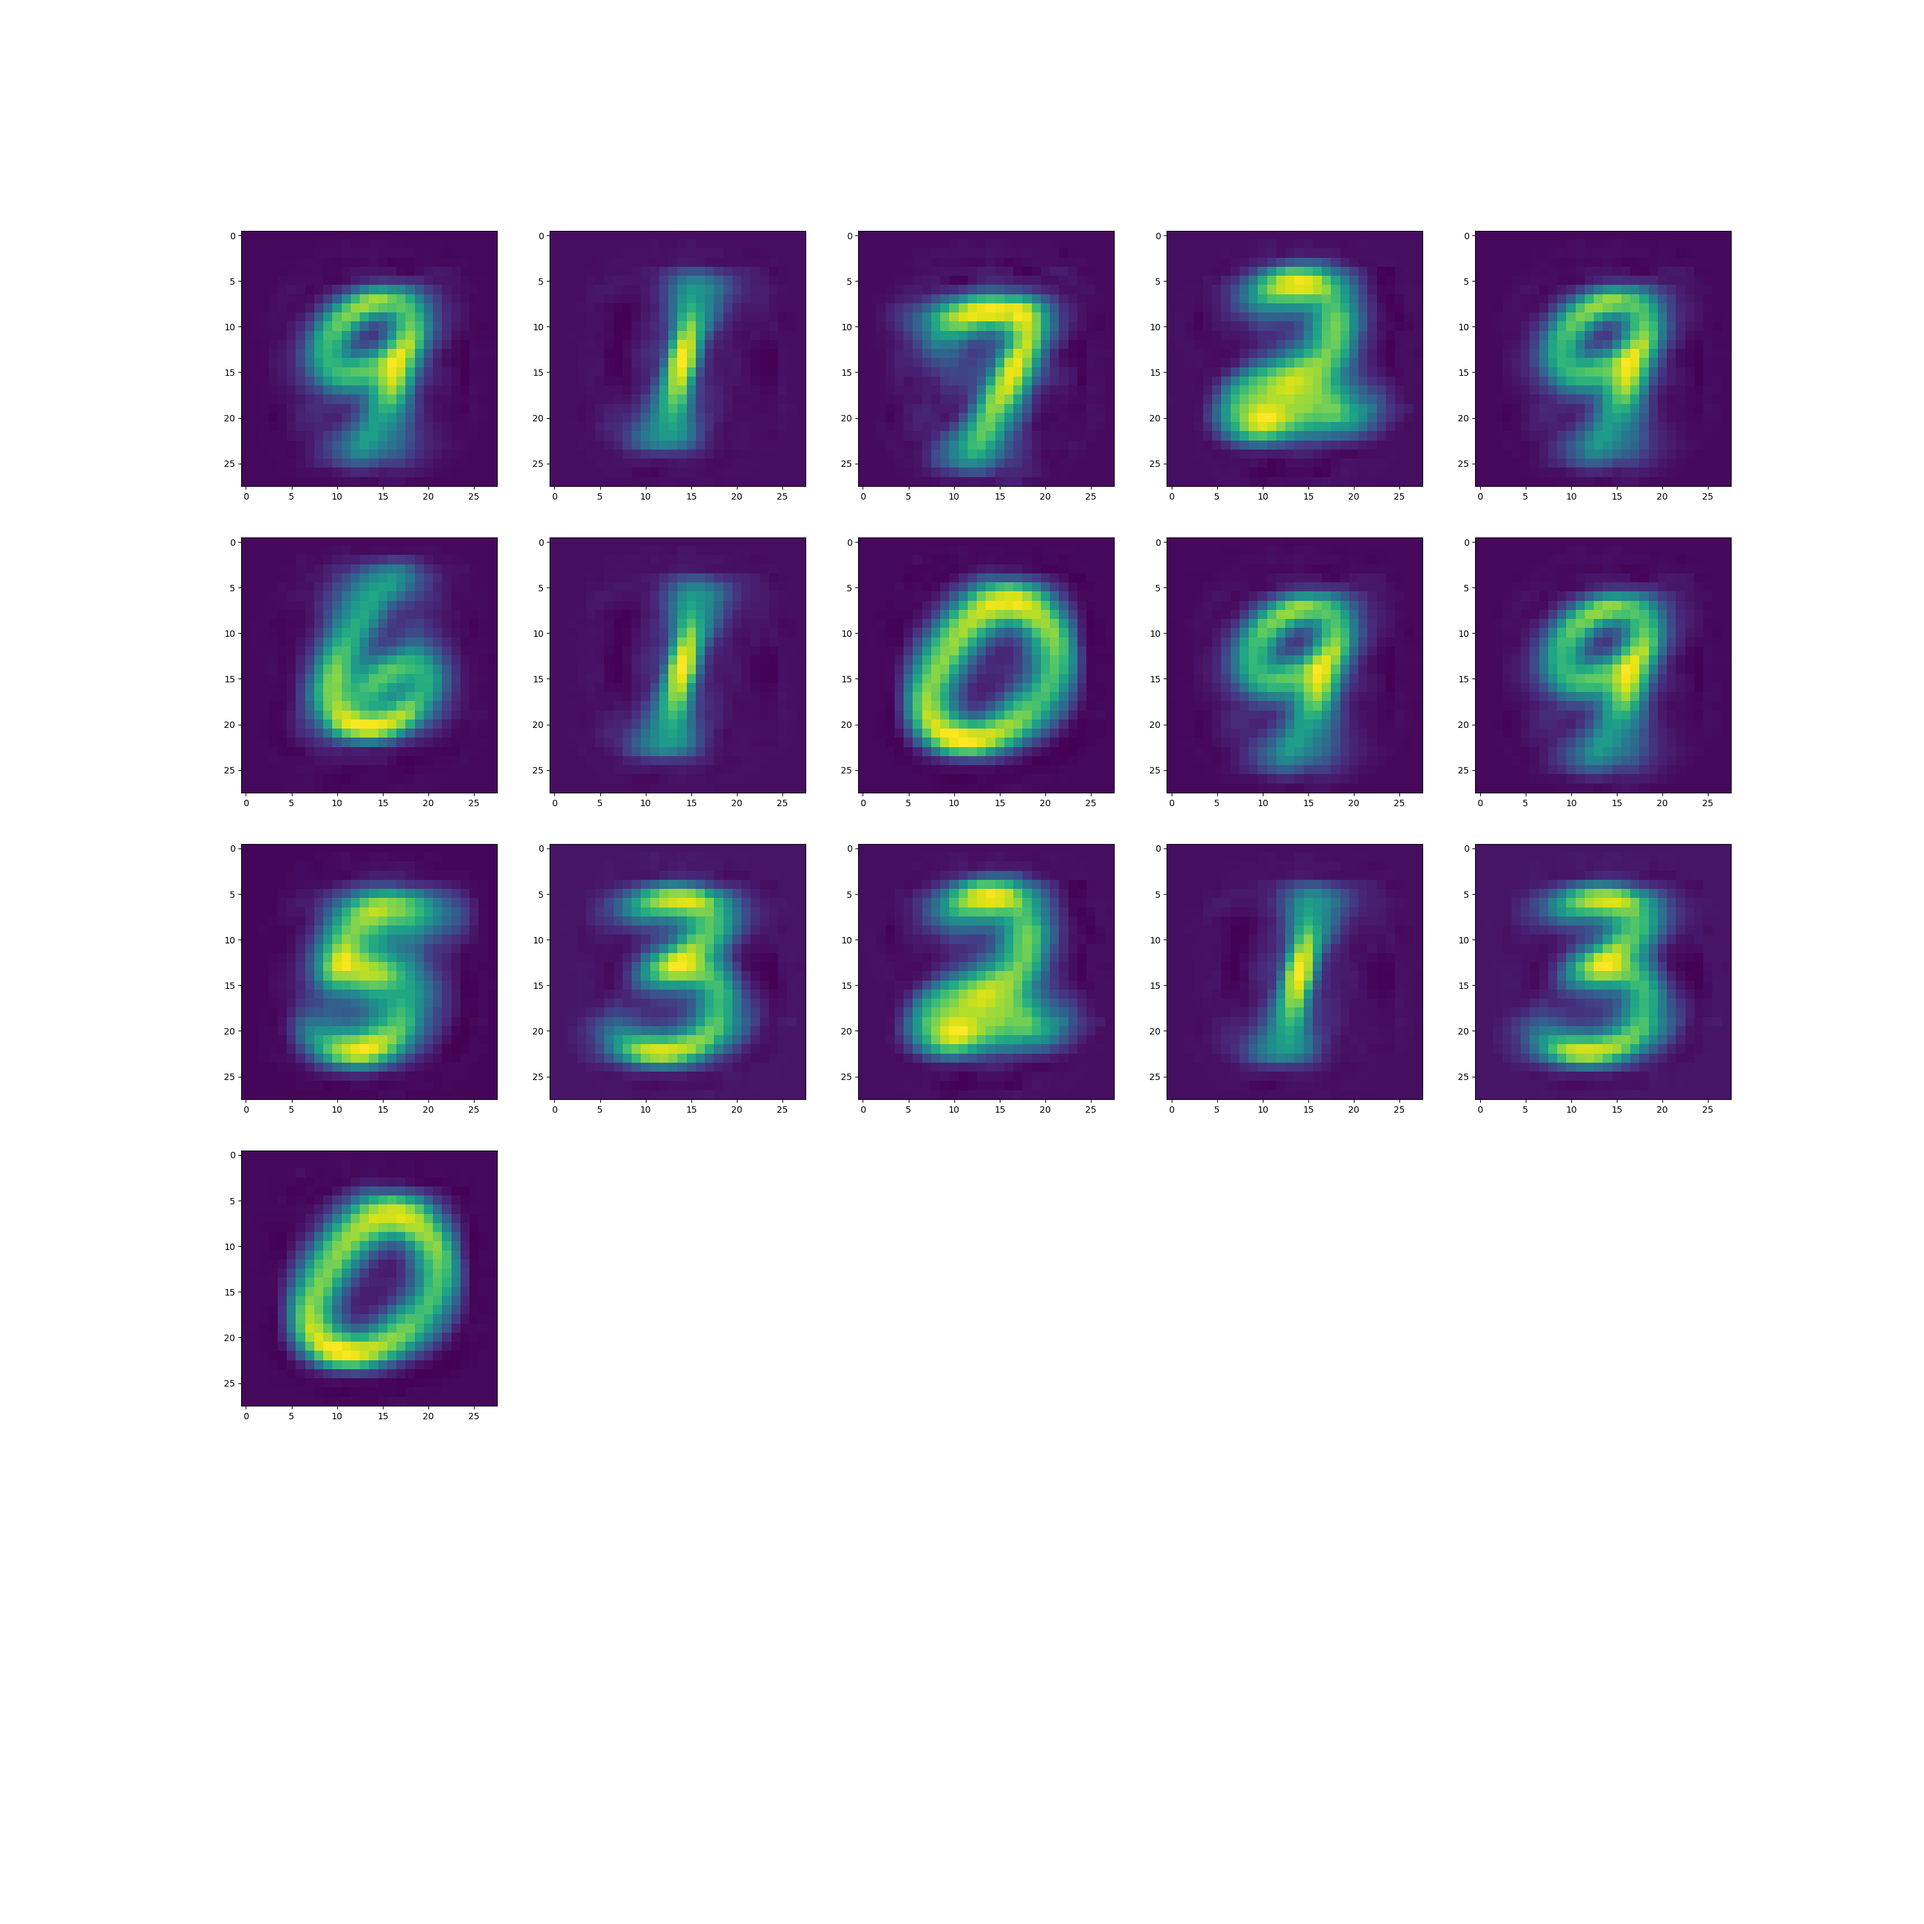
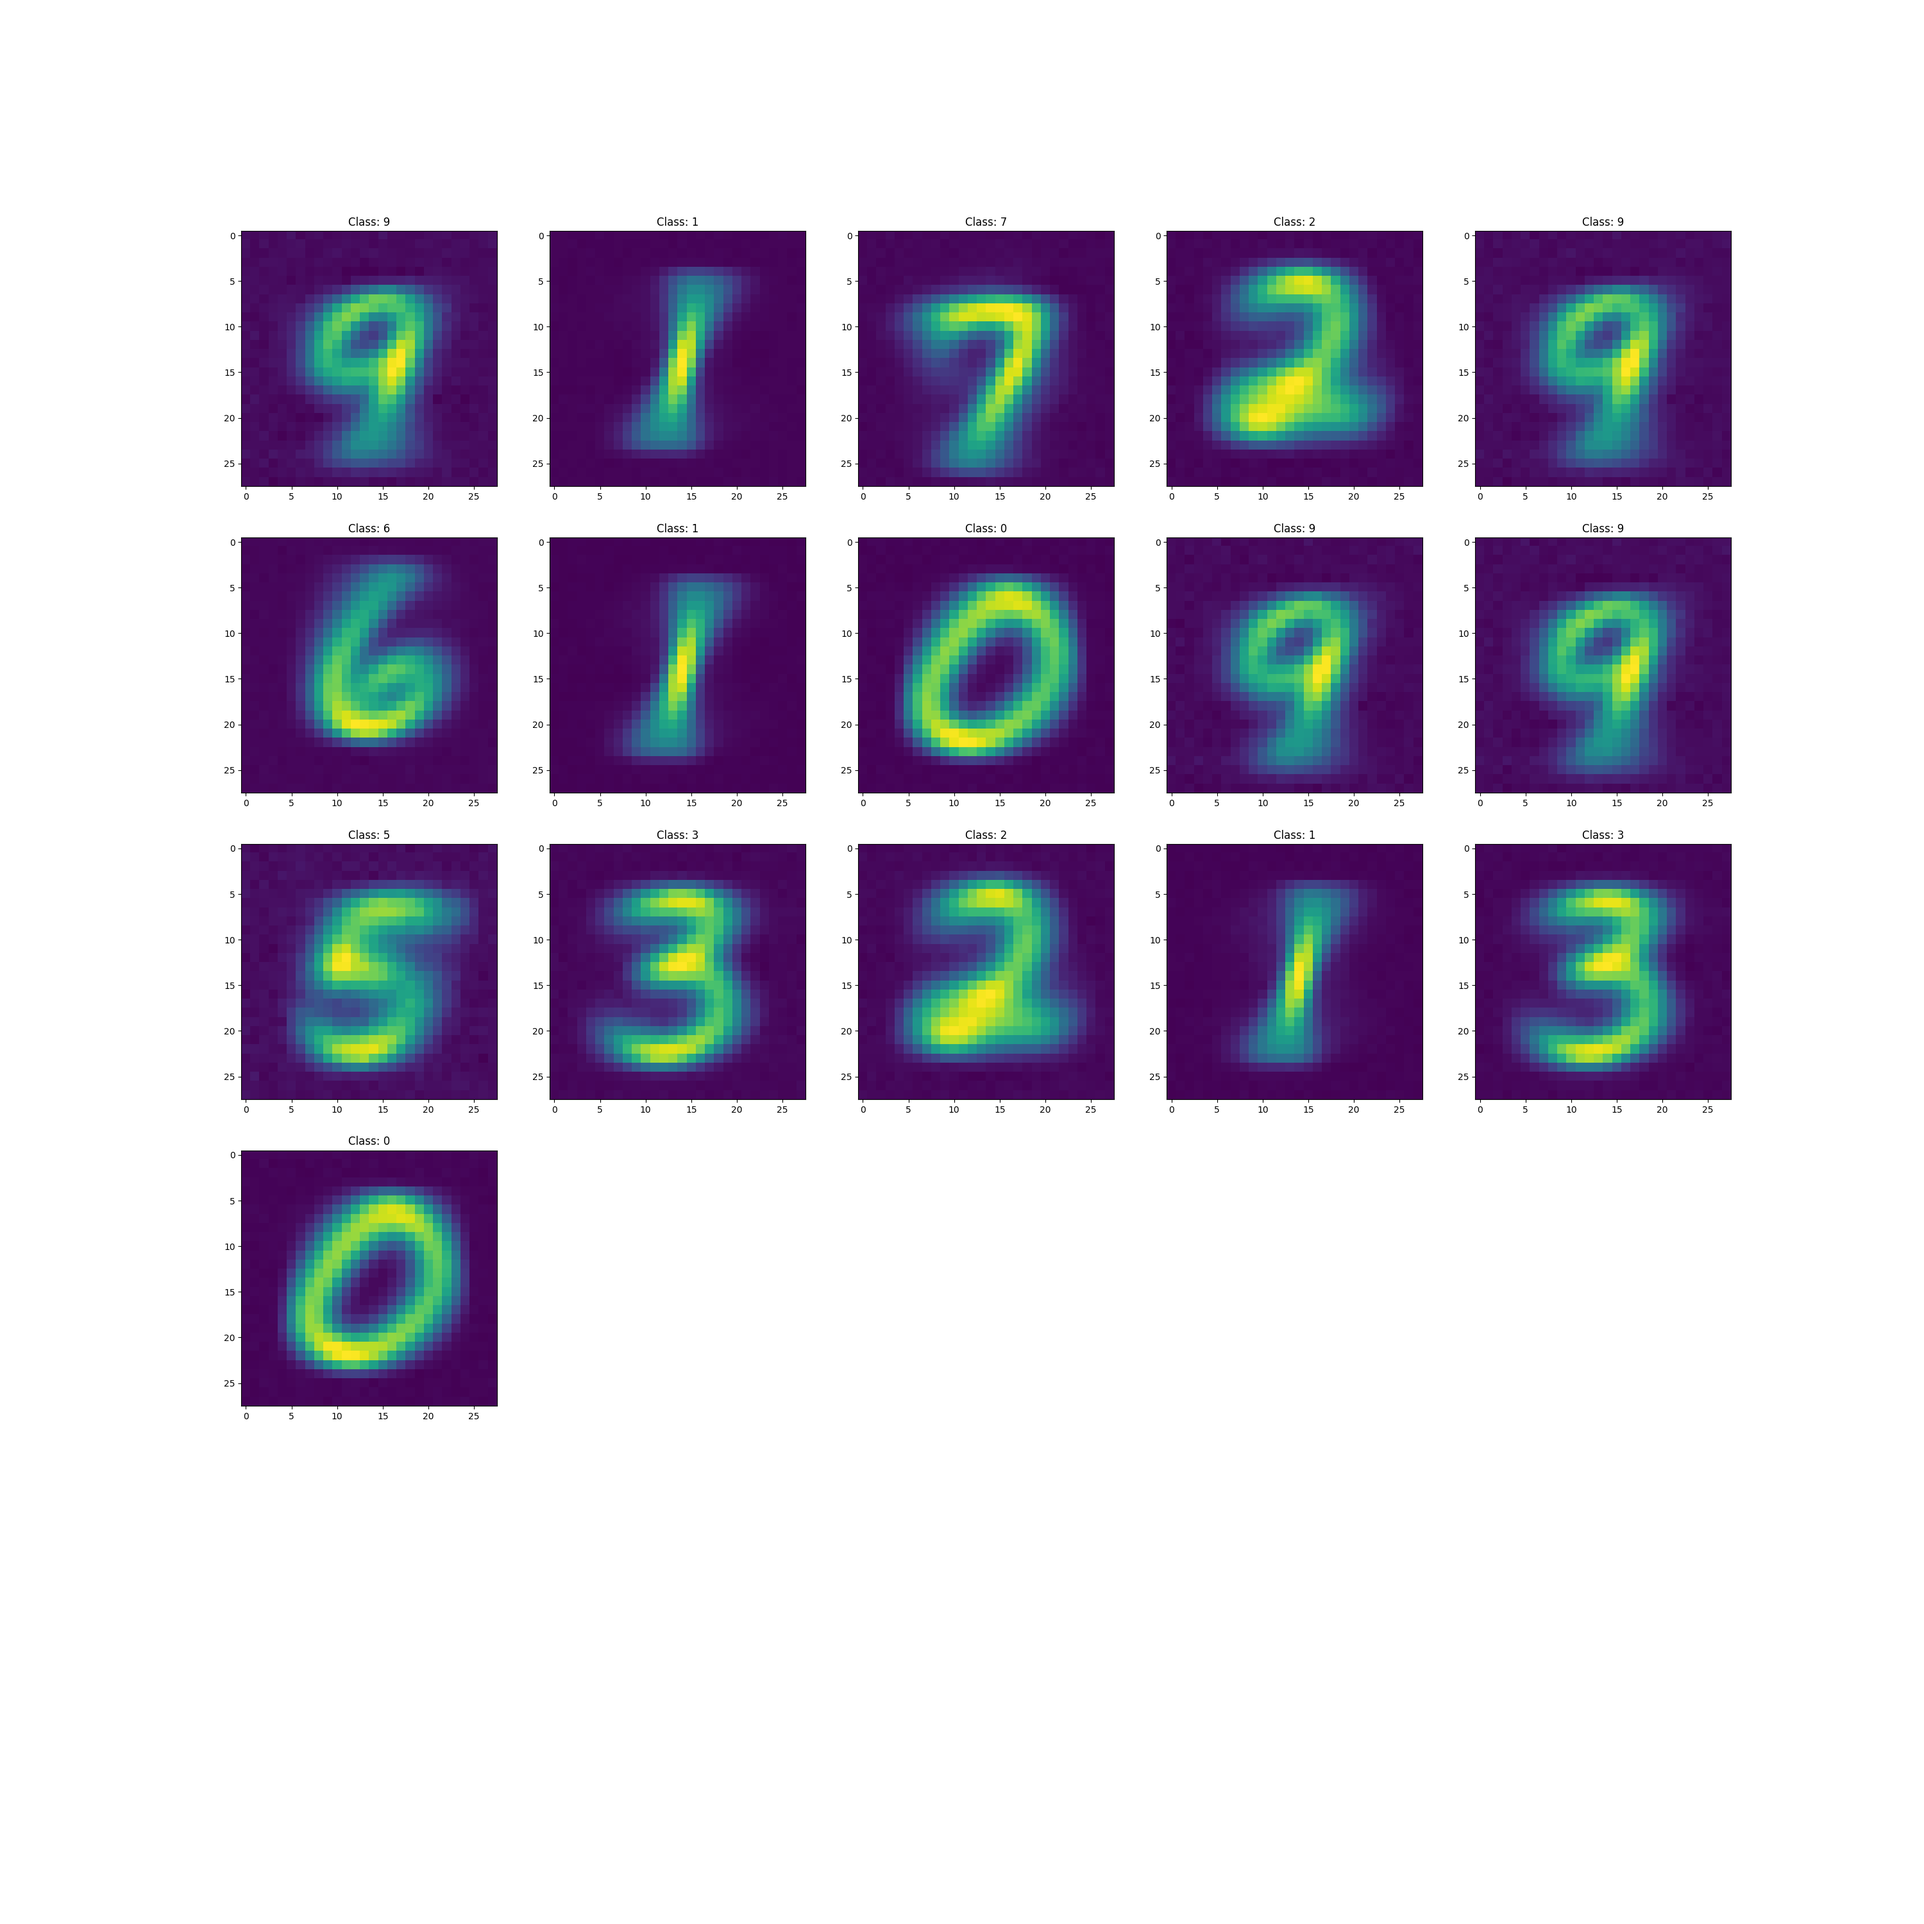
Update

diff --git a/main.py b/main.py
@@ -17,7 +17,7 @@ parser = argparse.ArgumentParser(description='ImageGeneration')
 # Experiment settings
 parser.add_argument('--dataset', type=str, default='MNIST')
 parser.add_argument('--root_path', type=str, default='C:/Users/98311/Desktop/dataset/Images')
-parser.add_argument('--training', type=bool, default=True)
+parser.add_argument('--training', type=bool, default=False)
 parser.add_argument('--batch_size', type=int, default=800)
 parser.add_argument('--eval_freq', type=int, default=10)
 parser.add_argument('--exp_iters', type=int, default=1)

diff --git a/evaluate.py b/evaluate.py
@@ -13,7 +13,8 @@ def visualize(model, labels, dev_str='cuda:0', figsize=(30, 30), save_path=None)
     num = len(labels)
     row = int(np.sqrt(num)) + 1
     for i in range(num):
-        plt.subplot(row, row, i+1)
+        ax = plt.subplot(row, row, i+1)
+        ax.set_title(f"Class: {labels[i].item()}")
         plt.imshow(images[i])
     if save_path is not None:
         plt.savefig(save_path)
